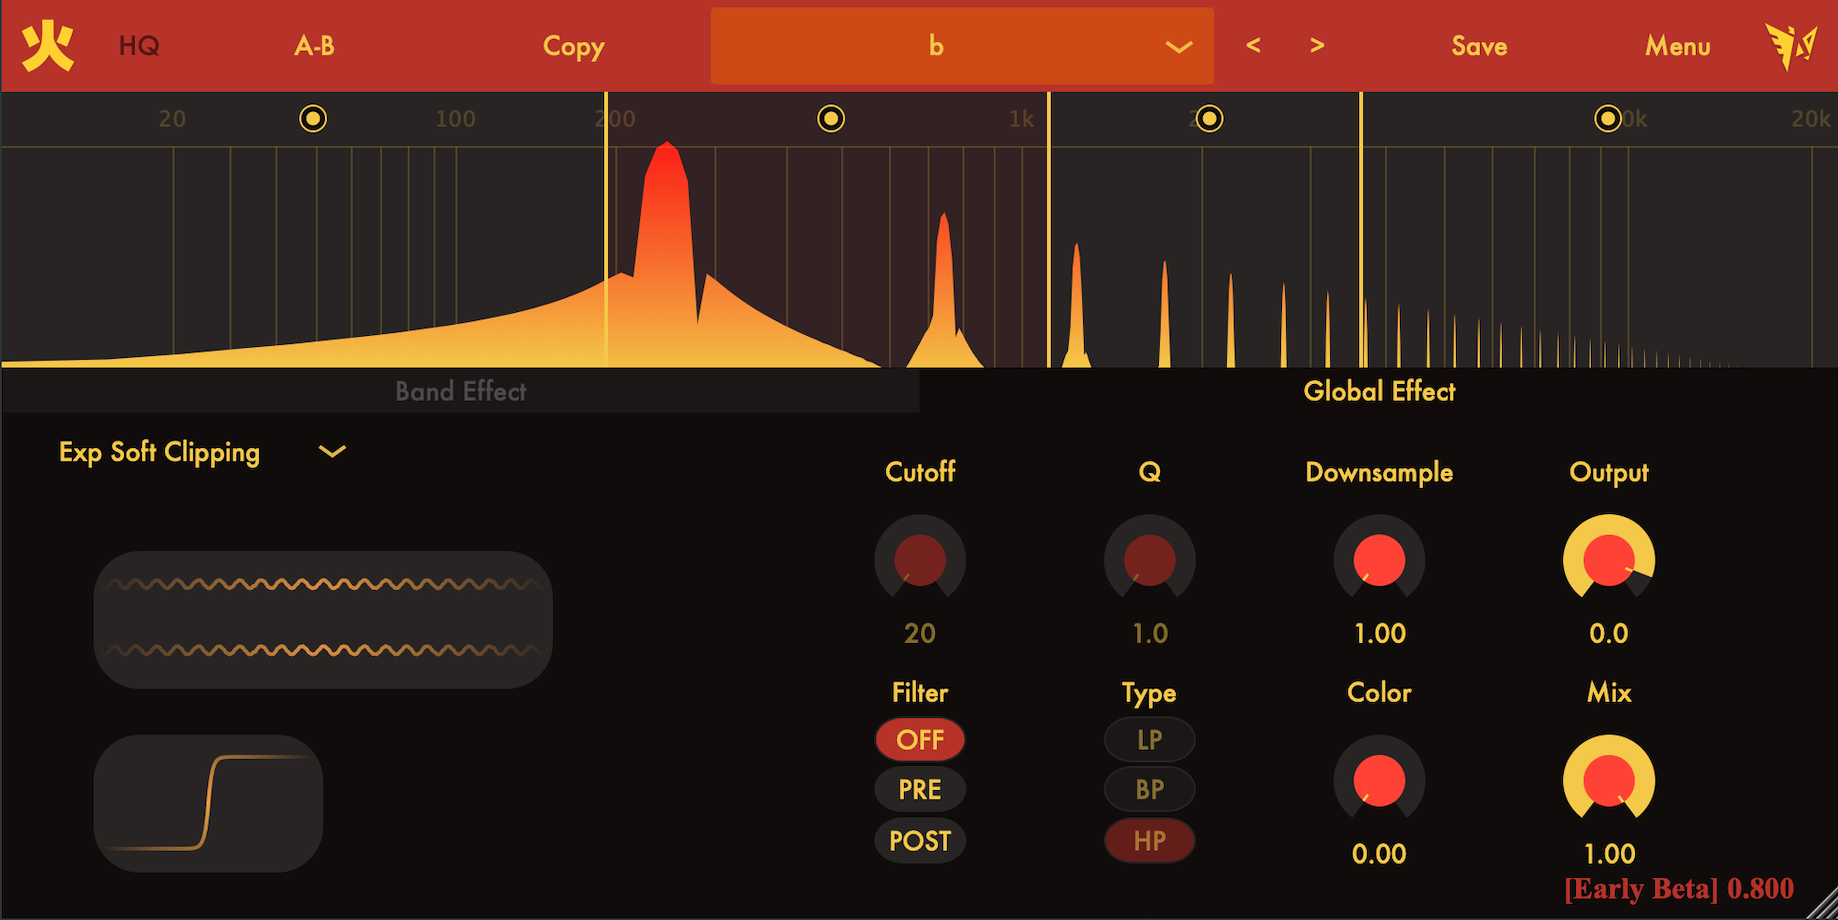
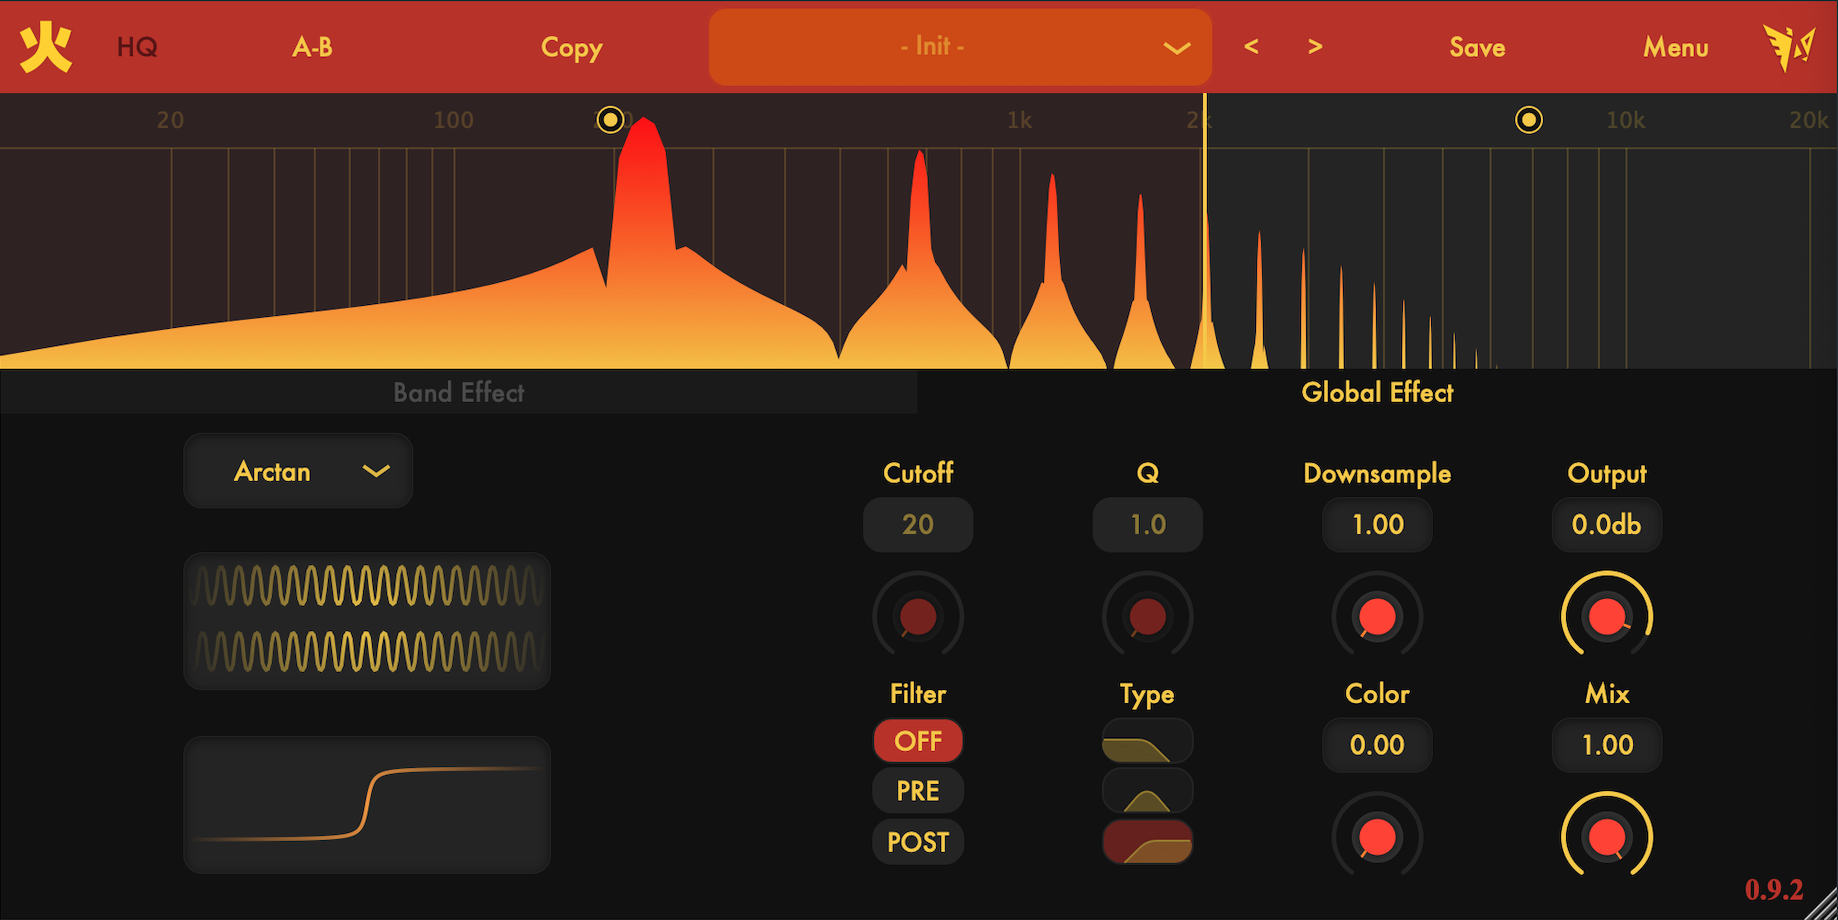
0.9.2 b4 GUI and suffix

diff --git a/Source/GUI/LookAndFeel.h b/Source/GUI/LookAndFeel.h
@@ -38,7 +38,7 @@ public:
     OtherLookAndFeel()
     {
         setColour(juce::Slider::textBoxTextColourId, KNOB_FONT_COLOUR);
-        setColour(juce::Slider::textBoxBackgroundColourId, juce::Colours::transparentWhite);
+        setColour(juce::Slider::textBoxBackgroundColourId, COLOUR6);
         setColour(juce::Slider::textBoxOutlineColourId, juce::Colours::transparentWhite);
         setColour(juce::Slider::textBoxHighlightColourId, COLOUR7);
         setColour(juce::Label::textColourId, COLOUR1);
@@ -224,17 +224,60 @@ public:
 
     void fillTextEditorBackground (juce::Graphics& g, int width, int height, juce::TextEditor& textEditor) override
     {
+        float cornerSize = 10.0f;
         if (dynamic_cast<juce::AlertWindow*> (textEditor.getParentComponent()) != nullptr)
         {
             g.setColour (textEditor.findColour (juce::TextEditor::backgroundColourId));
-            g.fillRoundedRectangle(0.0f, 0.0f, static_cast<float>(width), static_cast<float>(height), 10);
+            g.fillRoundedRectangle(0.0f, 0.0f, static_cast<float>(width), static_cast<float>(height), cornerSize);
             g.setColour (textEditor.findColour (juce::TextEditor::outlineColourId));
             g.drawHorizontalLine (height - 1, 0.0f, static_cast<float> (width));
         }
         else
         {
             g.setColour (textEditor.findColour (juce::TextEditor::backgroundColourId));
-            g.fillRoundedRectangle(0.0f, 0.0f, static_cast<float>(width), static_cast<float>(height), 10);
+            g.fillRoundedRectangle(0.0f, 0.0f, static_cast<float>(width), static_cast<float>(height), cornerSize);
+        }
+        juce::Path pathShadow;
+        pathShadow.addRoundedRectangle(textEditor.getLocalBounds().toFloat().reduced (0.5f, 0.5f), cornerSize);
+        g.setColour (juce::Colours::black.withAlpha ((textEditor.isEnabled() ? 0.9f : 0.2f)));
+        drawInnerShadow(g, pathShadow);
+    }
+    
+    void drawLabel (juce::Graphics& g, juce::Label& label) override
+    {
+        float cornerSize = 10.0f;
+        g.setColour(label.findColour (juce::Label::backgroundColourId));
+        g.fillRoundedRectangle(label.getLocalBounds().toFloat(), cornerSize);
+        
+        if (! label.isBeingEdited())
+        {
+            auto alpha = label.isEnabled() ? 1.0f : 0.5f;
+            const juce::Font font (getLabelFont (label));
+
+            g.setColour (label.findColour (juce::Label::textColourId).withMultipliedAlpha (alpha));
+            g.setFont (font);
+
+            auto textArea = getLabelBorderSize (label).subtractedFrom (label.getLocalBounds());
+
+            g.drawFittedText (label.getText(), textArea, label.getJustificationType(),
+                              juce::jmax (1, (int) ((float) textArea.getHeight() / font.getHeight())),
+                              label.getMinimumHorizontalScale());
+
+            g.setColour (label.findColour (juce::Label::outlineColourId).withMultipliedAlpha (alpha));
+        }
+        else if (label.isEnabled())
+        {
+            g.setColour (label.findColour (juce::Label::outlineColourId));
+        }
+
+        g.drawRoundedRectangle (label.getLocalBounds().toFloat(), cornerSize, 1);
+        
+        if (label.isEditable())
+        {
+            juce::Path pathShadow;
+            pathShadow.addRoundedRectangle(label.getLocalBounds().toFloat().reduced (0.5f, 0.5f), cornerSize);
+            g.setColour (juce::Colours::black.withAlpha ((label.isEnabled() ? 0.9f : 0.2f)));
+            drawInnerShadow(g, pathShadow);
         }
     }
     
@@ -578,7 +621,7 @@ public:
     DriveLookAndFeel()
     {
         setColour(juce::Slider::textBoxTextColourId, KNOB_FONT_COLOUR);
-        setColour(juce::Slider::textBoxBackgroundColourId, juce::Colours::transparentWhite);
+        setColour(juce::Slider::textBoxBackgroundColourId, COLOUR6);
         setColour(juce::Slider::textBoxOutlineColourId, juce::Colours::transparentWhite);
         setColour(juce::Slider::textBoxHighlightColourId, COLOUR7);
         setColour(juce::Label::textColourId, COLOUR1);
@@ -873,17 +916,60 @@ public:
     
     void fillTextEditorBackground (juce::Graphics& g, int width, int height, juce::TextEditor& textEditor) override
     {
+        float cornerSize = 10.0f;
         if (dynamic_cast<juce::AlertWindow*> (textEditor.getParentComponent()) != nullptr)
         {
             g.setColour (textEditor.findColour (juce::TextEditor::backgroundColourId));
-            g.fillRoundedRectangle(0.0f, 0.0f, static_cast<float>(width), static_cast<float>(height), 10);
+            g.fillRoundedRectangle(0.0f, 0.0f, static_cast<float>(width), static_cast<float>(height), cornerSize);
             g.setColour (textEditor.findColour (juce::TextEditor::outlineColourId));
             g.drawHorizontalLine (height - 1, 0.0f, static_cast<float> (width));
         }
         else
         {
             g.setColour (textEditor.findColour (juce::TextEditor::backgroundColourId));
-            g.fillRoundedRectangle(0.0f, 0.0f, static_cast<float>(width), static_cast<float>(height), 10);
+            g.fillRoundedRectangle(0.0f, 0.0f, static_cast<float>(width), static_cast<float>(height), cornerSize);
+        }
+        juce::Path pathShadow;
+        pathShadow.addRoundedRectangle(textEditor.getLocalBounds().toFloat().reduced (0.5f, 0.5f), cornerSize);
+        g.setColour (juce::Colours::black.withAlpha ((textEditor.isEnabled() ? 0.9f : 0.2f)));
+        drawInnerShadow(g, pathShadow);
+    }
+    
+    void drawLabel (juce::Graphics& g, juce::Label& label) override
+    {
+        float cornerSize = 10.0f;
+        g.setColour(label.findColour (juce::Label::backgroundColourId));
+        g.fillRoundedRectangle(label.getLocalBounds().toFloat(), cornerSize);
+        
+        if (! label.isBeingEdited())
+        {
+            auto alpha = label.isEnabled() ? 1.0f : 0.5f;
+            const juce::Font font (getLabelFont (label));
+
+            g.setColour (label.findColour (juce::Label::textColourId).withMultipliedAlpha (alpha));
+            g.setFont (font);
+
+            auto textArea = getLabelBorderSize (label).subtractedFrom (label.getLocalBounds());
+
+            g.drawFittedText (label.getText(), textArea, label.getJustificationType(),
+                              juce::jmax (1, (int) ((float) textArea.getHeight() / font.getHeight())),
+                              label.getMinimumHorizontalScale());
+
+            g.setColour (label.findColour (juce::Label::outlineColourId).withMultipliedAlpha (alpha));
+        }
+        else if (label.isEnabled())
+        {
+            g.setColour (label.findColour (juce::Label::outlineColourId));
+        }
+
+        g.drawRoundedRectangle (label.getLocalBounds().toFloat(), cornerSize, 1);
+        
+        if (label.isEditable())
+        {
+            juce::Path pathShadow;
+            pathShadow.addRoundedRectangle(label.getLocalBounds().toFloat().reduced (0.5f, 0.5f), cornerSize);
+            g.setColour (juce::Colours::black.withAlpha ((label.isEnabled() ? 0.9f : 0.2f)));
+            drawInnerShadow(g, pathShadow);
         }
     }
     
@@ -921,7 +1007,7 @@ public:
                               bool shouldDrawButtonAsHighlighted,
                               bool shouldDrawButtonAsDown) override
     {
-        auto cornerSize = 15.0f * scale;
+        auto cornerSize = 10.0f * scale;
         auto bounds = button.getLocalBounds().toFloat().reduced(0.5f, 0.5f);
 
         auto baseColour = backgroundColour.withMultipliedSaturation(button.hasKeyboardFocus(true) ? 1.3f : 1.0f)
@@ -977,7 +1063,7 @@ public:
                               bool shouldDrawButtonAsHighlighted,
                               bool shouldDrawButtonAsDown) override
     {
-        auto cornerSize = 15.0f * scale;
+        auto cornerSize = 10.0f * scale;
         auto bounds = button.getLocalBounds().toFloat().reduced(0.5f, 0.5f);
 
         auto baseColour = backgroundColour.withMultipliedSaturation(button.hasKeyboardFocus(true) ? 1.3f : 1.0f)
@@ -1069,7 +1155,7 @@ public:
                               bool shouldDrawButtonAsHighlighted,
                               bool shouldDrawButtonAsDown) override
     {
-        auto cornerSize = 15.0f * scale;
+        auto cornerSize = 10.0f * scale;
         auto bounds = button.getLocalBounds().toFloat().reduced(0.5f, 0.5f);
 
         auto baseColour = backgroundColour.withMultipliedSaturation(button.hasKeyboardFocus(true) ? 1.3f : 1.0f)
@@ -1160,7 +1246,7 @@ public:
                               bool shouldDrawButtonAsHighlighted,
                               bool shouldDrawButtonAsDown) override
     {
-        auto cornerSize = 15.0f * scale;
+        auto cornerSize = 10.0f * scale;
         auto bounds = button.getLocalBounds().toFloat().reduced(0.5f, 0.5f);
 
         auto baseColour = backgroundColour.withMultipliedSaturation(button.hasKeyboardFocus(true) ? 1.3f : 1.0f)

diff --git a/Source/PluginEditor.cpp b/Source/PluginEditor.cpp
@@ -115,6 +115,12 @@ FireAudioProcessorEditor::FireAudioProcessorEditor(FireAudioProcessor &p)
     outputLabel.attachToComponent(&outputKnob1, false);
     outputLabel.setJustificationType(juce::Justification::centred);
     
+    outputKnob.setTextValueSuffix("db");
+    outputKnob1.setTextValueSuffix("db");
+    outputKnob2.setTextValueSuffix("db");
+    outputKnob3.setTextValueSuffix("db");
+    outputKnob4.setTextValueSuffix("db");
+    
     // mix knob
     setRotarySlider(mixKnob1);
     setRotarySlider(mixKnob2);
@@ -148,6 +154,11 @@ FireAudioProcessorEditor::FireAudioProcessorEditor(FireAudioProcessor &p)
     setLinearSlider(compThreshKnob3);
     setLinearSlider(compThreshKnob4);
 
+    compThreshKnob1.setTextValueSuffix("db");
+    compThreshKnob2.setTextValueSuffix("db");
+    compThreshKnob3.setTextValueSuffix("db");
+    compThreshKnob4.setTextValueSuffix("db");
+    
     addAndMakeVisible(CompThreshLabel);
     CompThreshLabel.setText("Threshold", juce::dontSendNotification);
     CompThreshLabel.setFont(juce::Font(KNOB_FONT, KNOB_FONT_SIZE, juce::Font::plain));
@@ -171,7 +182,7 @@ FireAudioProcessorEditor::FireAudioProcessorEditor(FireAudioProcessor &p)
     // color knob
     addAndMakeVisible(colorKnob);
     colorKnob.setSliderStyle(juce::Slider::RotaryHorizontalVerticalDrag);
-    colorKnob.setTextBoxStyle(juce::Slider::TextBoxBelow, false, TEXTBOX_WIDTH, TEXTBOX_HEIGHT);
+    colorKnob.setTextBoxStyle(juce::Slider::TextBoxAbove, false, TEXTBOX_WIDTH, TEXTBOX_HEIGHT);
 
     addAndMakeVisible(colorLabel);
     colorLabel.setText("Color", juce::dontSendNotification);
@@ -196,7 +207,7 @@ FireAudioProcessorEditor::FireAudioProcessorEditor(FireAudioProcessor &p)
     // downsample knob
     addAndMakeVisible(downSampleKnob);
     downSampleKnob.setSliderStyle(juce::Slider::RotaryHorizontalVerticalDrag);
-    downSampleKnob.setTextBoxStyle(juce::Slider::TextBoxBelow, false, TEXTBOX_WIDTH, TEXTBOX_HEIGHT);
+    downSampleKnob.setTextBoxStyle(juce::Slider::TextBoxAbove, false, TEXTBOX_WIDTH, TEXTBOX_HEIGHT);
 
     addAndMakeVisible(downSampleLabel);
     downSampleLabel.setText("Downsample", juce::dontSendNotification);
@@ -221,7 +232,7 @@ FireAudioProcessorEditor::FireAudioProcessorEditor(FireAudioProcessor &p)
     // cutoff knob
     addAndMakeVisible(cutoffKnob);
     cutoffKnob.setSliderStyle(juce::Slider::RotaryHorizontalVerticalDrag);
-    cutoffKnob.setTextBoxStyle(juce::Slider::TextBoxBelow, false, TEXTBOX_WIDTH, TEXTBOX_HEIGHT);
+    cutoffKnob.setTextBoxStyle(juce::Slider::TextBoxAbove, false, TEXTBOX_WIDTH, TEXTBOX_HEIGHT);
 
     addAndMakeVisible(cutoffLabel);
     cutoffLabel.setText("Cutoff", juce::dontSendNotification);
@@ -233,7 +244,7 @@ FireAudioProcessorEditor::FireAudioProcessorEditor(FireAudioProcessor &p)
     // res knob
     addAndMakeVisible(resKnob);
     resKnob.setSliderStyle(juce::Slider::RotaryHorizontalVerticalDrag);
-    resKnob.setTextBoxStyle(juce::Slider::TextBoxBelow, false, TEXTBOX_WIDTH, TEXTBOX_HEIGHT);
+    resKnob.setTextBoxStyle(juce::Slider::TextBoxAbove, false, TEXTBOX_WIDTH, TEXTBOX_HEIGHT);
 
     addAndMakeVisible(resLabel);
     resLabel.setText("Q", juce::dontSendNotification); // Resonance

diff --git a/Source/GUI/InterfaceDefines.h b/Source/GUI/InterfaceDefines.h
@@ -233,7 +233,7 @@
 #define DRIVE_Y             secondShadowY + (getHeight() - secondShadowY) / 2 - SCALED_KNOBSIZE / 2 - 20
 #define REC_X               startX * 5.5 - SCALED_KNOBSIZE / 2
 #define BIAS_X              startX * 6.5 - SCALED_KNOBSIZE / 2
-#define WIDTH_X             startX * 6.5 - SCALED_KNOBSIZE / 2
+#define WIDTH_X             startX * 6.25 - SCALED_KNOBSIZE / 2
 #define OUTPUT_X            startX * 7 - SCALED_KNOBSIZE / 2
 #define COMP_RATIO_X        startX * 5.5 - SCALED_KNOBSIZE / 2
 #define COMP_THRESH_X       startX * 6 - SCALED_KNOBSIZE / 2

diff --git a/JuceLibraryCode/JucePluginDefines.h b/JuceLibraryCode/JucePluginDefines.h
@@ -74,13 +74,13 @@
  #define JucePlugin_EditorRequiresKeyboardFocus  0
 #endif
 #ifndef  JucePlugin_Version
- #define JucePlugin_Version                0.9.2 b3
+ #define JucePlugin_Version                0.9.2 b4
 #endif
 #ifndef  JucePlugin_VersionCode
  #define JucePlugin_VersionCode            0x902
 #endif
 #ifndef  JucePlugin_VersionString
- #define JucePlugin_VersionString          "0.9.2 b3"
+ #define JucePlugin_VersionString          "0.9.2 b4"
 #endif
 #ifndef  JucePlugin_VSTUniqueID
  #define JucePlugin_VSTUniqueID            JucePlugin_PluginCode

diff --git a/JuceLibraryCode/JuceHeader.h b/JuceLibraryCode/JuceHeader.h
@@ -48,7 +48,7 @@ namespace ProjectInfo
 {
     const char* const  projectName    = "Fire";
     const char* const  companyName    = "";
-    const char* const  versionString  = "0.9.2 b3";
+    const char* const  versionString  = "0.9.2 b4";
     const int          versionNumber  = 0x902;
 }
 #endif
